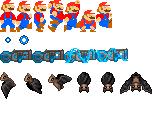
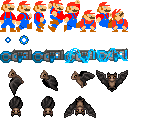
It's bat country!

Changed region(s): [[0.0, 0.5312, 0.9688, 0.9062], [0.375, 0.75, 0.625, 0.9375], [0.6875, 0.0625, 0.8125, 0.25]]

diff --git a/src/scene_jumpman.cpp b/src/scene_jumpman.cpp
@@ -45,6 +45,10 @@ void JumpScene::EnterScene()
 	bulletPartSys.max_rotation = 360.f;
 	bulletPartSys.rotation_vel = 180.f;
 
+	new Bat(vec(60, 10));
+	new Bat(vec(100, 50));
+	new Bat(vec(1000, 50));
+
 	map.Randomize(time(NULL));
 
 	sf::Vector2i pos = map.tilePos(player.pos);
@@ -57,10 +61,11 @@ void JumpScene::EnterScene()
 
 }
 
-void JumpScene::ExitScene()  
+void JumpScene::ExitScene()
 {
 	bulletPartSys.Clear();
 	EntS<Bullet>::deleteAll();
+	EntS<Bat>::deleteAll();
 }
 
 void JumpScene::Update(int dtMilis) {
@@ -99,10 +104,25 @@ void JumpScene::Update(int dtMilis) {
 	// TODO: Better selfregister that does all the push_backs/erases at once at the end of the frame
 	for (Bullet* e  : EntS<Bullet>::getAll()) {
 		e->Update(dt);
-		bulletPartSys.pos = e->pos + vec::Rand(-4, -4, 4, 4);
-		bulletPartSys.Spawn(dt);
+		if (!e->explode) {
+			bulletPartSys.pos = e->pos + vec::Rand(-4, -4, 4, 4);
+			bulletPartSys.Spawn(dt);
+		}
 	}
 	EntS<Bullet>::deleteNotAlive();
+
+	for (Bat* e : EntS<Bat>::getAll()) {
+		e->Update(&player, dt);
+		for (Bullet* b : EntS<Bullet>::getAll()) {
+			if (e->explode) continue;
+			if (Collide(e, b)) {
+				b->pos = e->pos;
+				b->explode = true;
+				e->alive = false;
+			}
+		}
+	}
+	EntS<Bat>::deleteNotAlive();
 
 	if (Keyboard::IsKeyPressed(DEBUG_EDIT_MODE) && (Mouse::IsPressed(sf::Mouse::Button::Left) || Mouse::IsPressed(sf::Mouse::Button::Right))) {
 		bool what_to_set = Mouse::IsPressed(sf::Mouse::Button::Left);
@@ -116,20 +136,40 @@ void JumpScene::Update(int dtMilis) {
 
 void JumpScene::Draw(sf::RenderTarget& window) 
 {
+
+	static bool debugDraw = false;
+	if (Keyboard::IsKeyJustPressed(DEBUG_BOUNDS)) {
+		debugDraw = !debugDraw;
+	}
 	window.clear(sf::Color(255*0.200f, 255 * 0.100f, 255 * 0.100f));
 
 	map.Draw(sprite, window);
 
+	for (Bat* e : EntS<Bat>::getAll()) {
+		e->Draw(marioSprite, window);
+		if (debugDraw) {
+			e->drawBounds(window);
+			e->DrawSenseArea(window);
+		}
+	}
+
 	bulletPartSys.Draw(window);
 	//bulletPartSys.DrawImGUI("BulletTrail");
+
 	for (Bullet* e : EntS<Bullet>::getAll()) {
 		e->Draw(sprite, window);
+		if (debugDraw) {
+			e->drawBounds(window);
+		}
 	}
 
 	player.Draw(marioSprite, window);
 
-	//player.bounds().Draw(window);
-	//Bounds(player.pos, vec(1, 1)).Draw(window, sf::Color::White);
+	if (debugDraw) {
+		player.bounds().Draw(window);
+		Bounds(player.pos, vec(1, 1)).Draw(window, sf::Color::White);
+		Bounds(player.center(), vec(1, 1)).Draw(window, sf::Color::White);
+	}
 
 	//ImGui::Begin(GameData::GAME_TITLE.c_str());
 	//ImGui::SliderFloat("y", &player.pos.y, 0.f, 25 * 16.f);

diff --git a/src/bat.cpp b/src/bat.cpp
@@ -1,0 +1,79 @@
+#include "bat.h"
+
+#include "jumpman.h"
+
+const float awake_player_distance = 100.f;
+const float awake_nearby_distance = 60.f;
+const float awake_nearby_time = 1.f;
+
+Bat::Bat(vec position) {
+	pos = position;
+	radius = 8.f;
+	state = State::SIESTA;
+	anim.Ensure(BAT_SIESTA);
+	speed = vec(50, 0);
+}
+
+void Bat::DrawSenseArea(sf::RenderTarget& window)
+{
+	CircleBounds(pos, awake_player_distance).Draw(window, sf::Color::Yellow);
+	CircleBounds(pos, awake_nearby_distance).Draw(window, sf::Color::Cyan);
+}
+
+void AwakeNearbyBats(vec pos) {
+	for (Bat* bat : EntS<Bat>::getAll()) {
+		if (pos.DistanceSq(bat->pos) < (awake_nearby_distance * awake_nearby_distance)) {
+			bat->awakened = true;
+		}
+	}
+}
+
+void Bat::Update(JumpMan* jumpman, float dt)
+{
+	anim.Update(dt * 1000);
+
+	if (state == State::SIESTA) {
+
+		if (anim.GetCurrentAnim() == BAT_AWAKE) {
+			if (anim.complete) {
+				state = State::FLYING;
+				anim.Ensure(BAT_FLYING);
+				anim.loopable = true;
+				AwakeNearbyBats(pos);
+			}
+		}
+		else {
+			if (pos.DistanceSq(jumpman->center()) < (awake_player_distance * awake_player_distance) || awakened) {
+				anim.Ensure(BAT_AWAKE);
+				anim.loopable = false;
+			}
+		}
+
+	} else if (state == State::FLYING) {
+		pos += speed * dt;
+		if ((pos.x < 50 && speed.x < 0) || (pos.x > 200 && speed.x > 0))
+		{
+			speed = -speed;
+			anim.Ensure(BAT_FLIP);
+			anim.loopable = false;
+		}
+		if (anim.complete) {
+			anim.Ensure(BAT_FLYING);
+			anim.loopable = true;
+		}
+	}
+}
+
+void Bat::Draw(sf::Sprite& spr, sf::RenderTarget& window)
+{
+	if (speed.x > 0) {
+		spr.setScale(-1.f, 1.f);
+	} else {
+		spr.setScale(1.f, 1.f);
+	}
+	spr.setOrigin(16.f, 16.f);
+	spr.setTextureRect(anim.CurrentFrame());
+	spr.setPosition(pos.x, pos.y);
+	window.draw(spr);
+}
+

diff --git a/src/anim_data.cpp b/src/anim_data.cpp
@@ -629,4 +629,58 @@ AnimationData anim_lib[] =
 			1000,
 		},
 	},
+	//MARIO_CROUCH_LOOK_UP
+	{
+		1,
+		{
+			{96+16,9,16,22},
+		},
+		{
+			1000,
+		},
+	},
+	//BAT_FLYING
+	{
+		4,
+		{
+			{0 * 32, 2 * 32, 32, 32},
+			{1 * 32, 2 * 32, 32, 32},
+			{2 * 32, 2 * 32, 32, 32},
+			{1 * 32, 2 * 32, 32, 32},
+		},
+		{
+			100, 100, 100, 100,
+		},
+	},
+	//BAT_FLIP
+	{
+		1,
+		{
+			{3 * 32, 2 * 32, 32, 32},
+		},
+		{
+			120,
+		},
+	},
+	//BAT_SIESTA
+	{
+		2,
+		{
+			{0 * 32, 3 * 32, 32, 32},
+			{1 * 32, 3 * 32, 32, 32},
+		},
+		{
+			200, 10000,
+		},
+	},
+	//BAT_AWAKE
+	{
+		1,
+		{
+			{2 * 32, 3 * 32, 32, 32},
+		},
+		{
+			500,
+		},
+	},
 };

diff --git a/src/input.h b/src/input.h
@@ -23,7 +23,7 @@ enum GameKeys
 	ACTION, START, SHOOT,
 	DEBUG_ZOOM_IN, DEBUG_ZOOM_OUT,
 	DEBUG_FRAME_BY_FRAME, DEBUG_FRAME_BY_FRAME_NEXT,
-	DEBUG_EDIT_MODE,
+	DEBUG_EDIT_MODE, DEBUG_BOUNDS,
 	RESTART,
 };
 extern sf::Keyboard::Key key_map[magic_enum::enum_count<GameKeys>()];
@@ -42,6 +42,7 @@ inline void RemapInput()
 	key_map[GameKeys::RESTART] = sf::Keyboard::Escape;
 	key_map[GameKeys::DEBUG_FRAME_BY_FRAME] = sf::Keyboard::F1;
 	key_map[GameKeys::DEBUG_FRAME_BY_FRAME_NEXT] = sf::Keyboard::E;
+	key_map[GameKeys::DEBUG_BOUNDS] = sf::Keyboard::B;
 	key_map[GameKeys::DEBUG_EDIT_MODE] = sf::Keyboard::LShift;
 }
 

diff --git a/src/bat.h b/src/bat.h
@@ -1,0 +1,32 @@
+#pragma once
+
+#include "vector.h"
+#include "animation.h"
+#include "selfregister.h"
+#include "entity.h"
+
+class JumpMan;
+
+struct Bat : CircleEntity, EntS<Bat>
+{
+	enum class State {
+		SIESTA,
+		FLYING,
+	};
+
+	State state = State::FLYING;
+	bool explode = false;
+	int timer_explosion = 0;
+	float timeToAwake = 1000.f; //Does nothing if > 999
+	bool awakened = false;
+
+	Animation anim;
+
+	Bat(vec position);
+
+	void Update(JumpMan* jumpman, float dt);
+	void Draw(sf::Sprite& spr, sf::RenderTarget& window);
+
+	void DrawSenseArea(sf::RenderTarget& window);
+};
+

diff --git a/src/jumpman.h b/src/jumpman.h
@@ -20,6 +20,9 @@ struct JumpMan
     Bounds bounds() {
         return Bounds(pos, siz, vec(siz.x/2, siz.y));
     }
+    vec center() {
+        return pos + vec(0, -siz.y/2.f);
+    }
 
     vec pos;
     vec vel = vec(0.f,0.f);

diff --git a/src/anim_data.h b/src/anim_data.h
@@ -63,6 +63,11 @@ enum AnimationType
 	MARIO_JUMP,
 	MARIO_CROUCH,
 	MARIO_ONWALL,
+	MARIO_CROUCH_LOOK_UP,
+	BAT_FLYING,
+	BAT_FLIP,
+	BAT_SIESTA,
+	BAT_AWAKE,
 };
 
 

diff --git a/src/scene_jumpman.h b/src/scene_jumpman.h
@@ -6,6 +6,7 @@
 #include "jumpman.h"
 #include "scene_manager.h"
 #include "transition.h"
+#include "bat.h"
 
 struct JumpScene : Scene {
 
